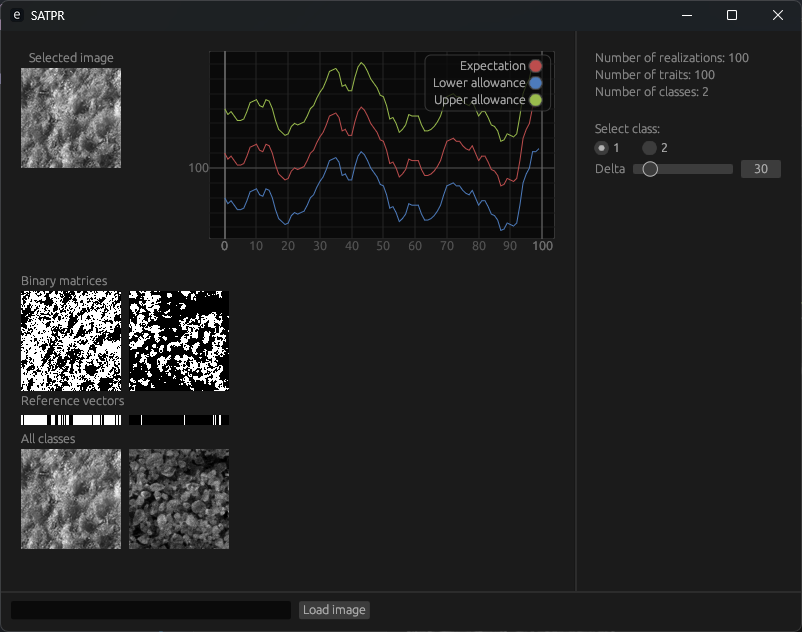
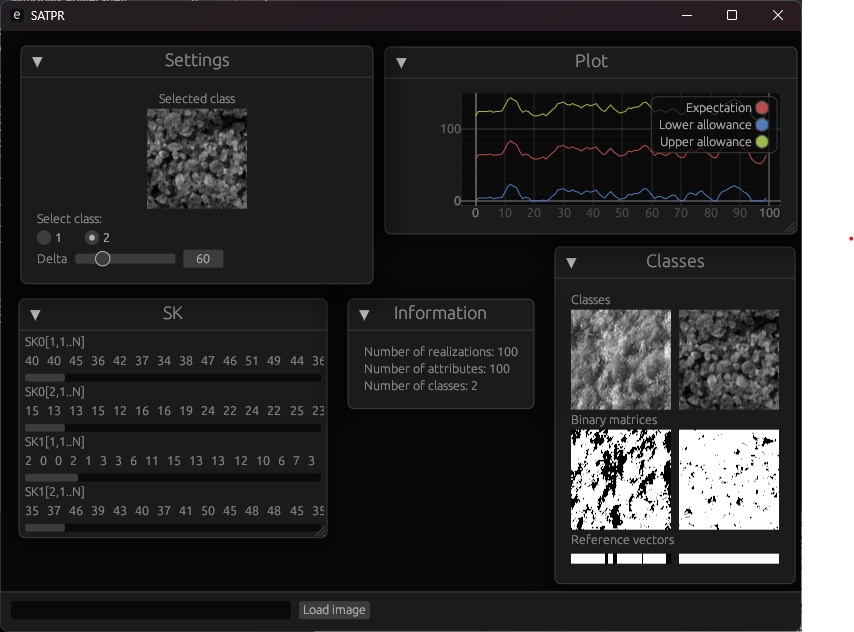
chore: change image of ui and README

diff --git a/README.md b/README.md
@@ -2,6 +2,6 @@
 EGUI app for reviewing training matrices in system analysis and decision-making theory
 
 ## GUI
-Example with two loaded images (1.bmp and 2.bmp in images directory), 1 image selected as base class and delta set to 30.
+Example with two loaded images (1.bmp and 2.bmp in images directory), second image selected as base class and delta is set to 60.
 
 ![GUI](interface.png "GUI")
